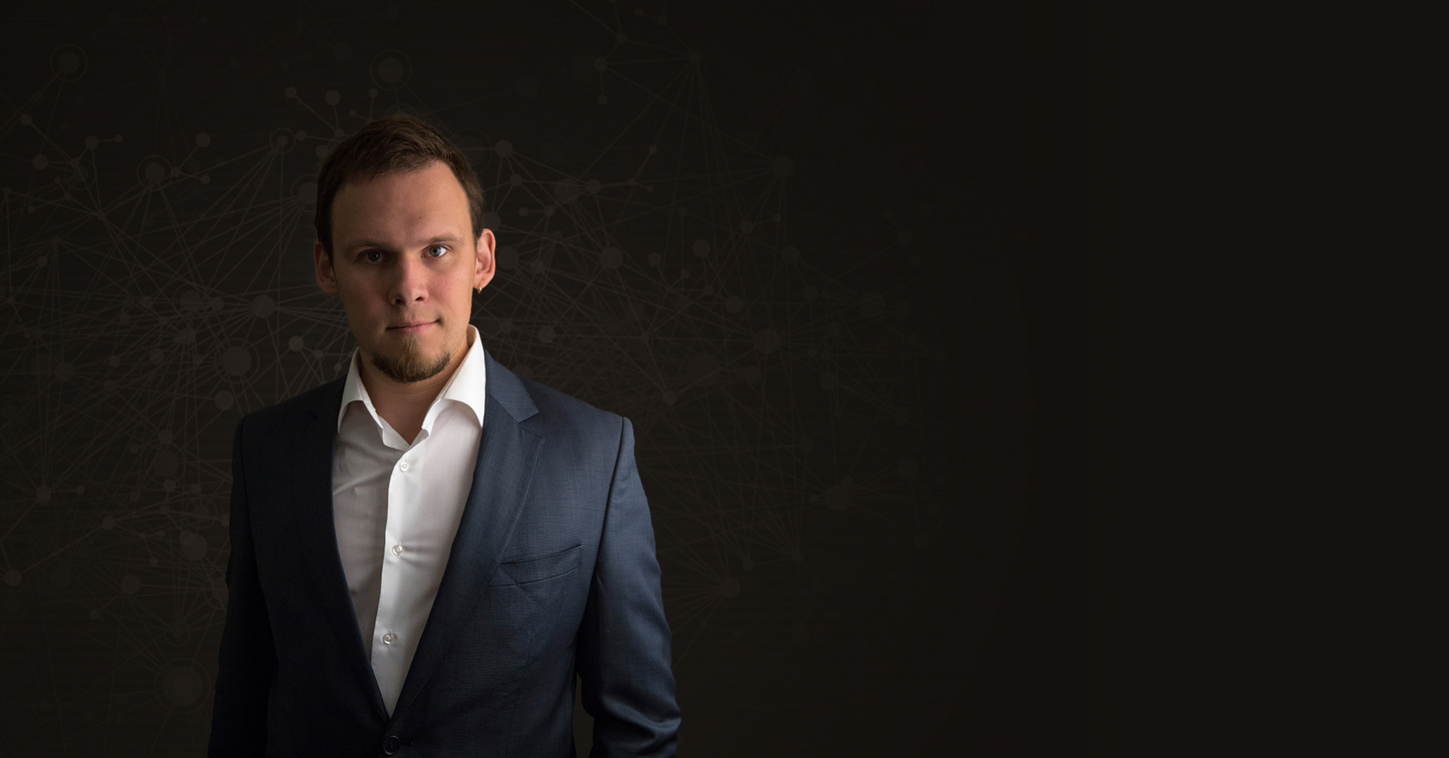
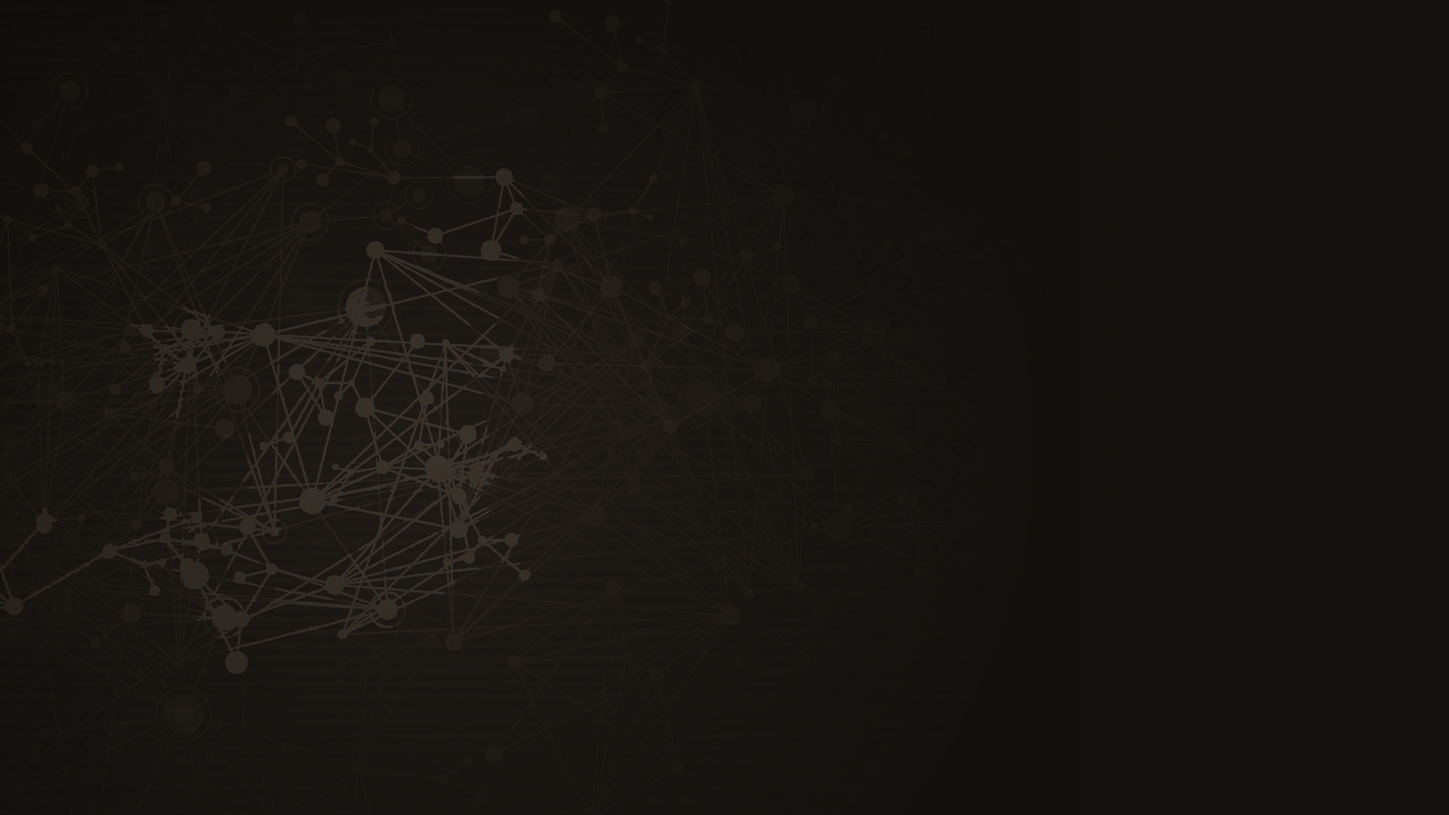
Add files via upload

Changed region(s): [[0.1562, 0.1542, 0.4688, 1.0]]

diff --git a/alxp/css/style.css b/alxp/css/style.css
@@ -1,1 +1,1 @@
-.about__text{max-width:640px;font-weight:400;font-size:22px;line-height:32px;color:#535762;text-align:center;margin:0 auto;margin-bottom:50px}.about__text span{display:block}.about-block{width:30%;max-width:400px;text-align:center;margin-bottom:113px}.about-block img{margin:0 auto}.about-block__img{height:136px;display:-ms-flex;display:-webkit-box;display:-ms-flexbox;display:flex;-webkit-box-align:center;-ms-flex-align:center;align-items:center;-webkit-box-pack:center;-ms-flex-pack:center;justify-content:center}.about-block__text{margin-top:17px;font-size:20px;font-weight:300;line-height:32px;color:#464749}.about-statistics{display:-ms-flex;display:-webkit-box;display:-ms-flexbox;display:flex;-webkit-box-align:center;-ms-flex-align:center;align-items:center;-webkit-box-pack:center;-ms-flex-pack:center;justify-content:center;width:400px}.about-statistics__number{font-size:95px;font-weight:900;color:#cc2428;margin-right:5px}.about-statistics__text{font-size:25px;font-weight:900;color:#000;line-height:25px}.projects{padding-top:85px;padding-bottom:115px;background:#f8fafc}.projects__title{margin-bottom:85px;position:relative}.projects__title::before{content:'';position:absolute;bottom:-30px;left:0;width:112px;height:4px;background:#cc2428}.projects-category{display:-ms-flex;display:-webkit-box;display:-ms-flexbox;display:flex;-webkit-box-align:center;-ms-flex-align:center;align-items:center;-ms-flex-wrap:wrap;flex-wrap:wrap;margin-bottom:30px}.projects-category__item{margin-right:15px;margin-bottom:18px;text-align:center;font-weight:500;font-size:16px;color:#fff;line-height:30px;padding:0 15px;padding-top:2px;background:#0884f6;border-radius:5px;text-decoration:none}.project{margin-bottom:60px;display:grid;grid-template-columns:1fr 1fr 1fr;grid-column-gap:35px}.project-content{padding:30px 0;width:100%}.project-content__title{font-size:26px;line-height:36px;color:#000;font-weight:500;margin-bottom:25px;max-width:325px}.project-content__text{font-size:18px;line-height:30px;color:#5f5f5f;font-weight:300;max-width:285px}.project-btn{display:-ms-flex;display:-webkit-box;display:-ms-flexbox;display:flex;-webkit-box-pack:center;-ms-flex-pack:center;justify-content:center;-webkit-box-align:center;-ms-flex-align:center;align-items:center;width:100%;background:#f8fafc;border:1px solid #dcdcdc;cursor:pointer}.project-btn__text{display:-ms-flex;display:-webkit-box;display:-ms-flexbox;display:flex;-webkit-box-pack:center;-ms-flex-pack:center;justify-content:center;-webkit-box-align:center;-ms-flex-align:center;align-items:center;font-size:32px;font-weight:500;line-height:32px}.project-btn__text span{font-size:75px;font-weight:500;color:#cc2428;margin-right:30px}.project__wrapper{grid-column-start:1;grid-column-end:3}.project-block{width:100%;padding:40px 38px 19px 40px;height:360px;display:-ms-flex;display:-webkit-box;display:-ms-flexbox;display:flex;text-decoration:none;-webkit-box-orient:vertical;-webkit-box-direction:normal;-ms-flex-direction:column;flex-direction:column;-webkit-box-pack:justify;-ms-flex-pack:justify;justify-content:space-between;position:relative;z-index:1}.project-block__img{position:absolute;bottom:34px;right:38px;z-index:-1}.project-block__title{color:#fff;font-weight:500}.project-block__category{display:-ms-flex;display:-webkit-box;display:-ms-flexbox;display:flex;-ms-flex-wrap:wrap;flex-wrap:wrap;max-width:80%}.project-block__category span{font-size:16px;line-height:30px;font-weight:500;color:#fff;margin-right:20px}.project-blockWide .project-block__title{font-size:40px;line-height:50px}.project-blockSmall .project-block__title{font-size:32px;line-height:42px}.project-blockSmall .project-block__category{-webkit-box-orient:vertical;-webkit-box-direction:normal;-ms-flex-direction:column;flex-direction:column}.project_2 .project__wrapper{grid-column-start:2;grid-column-end:4}.project_2 .project__wrapper .project-block__title{color:#000}.project_2 .project__wrapper .project-block__category span{color:#1a1a1a}.project_2 .project-content{text-align:right}.project_2 .project-content__text,.project_2 .project-content__title{margin-left:auto}.project_3 .project__wrapper{display:grid;grid-template-columns:1fr 1fr;grid-column-gap:35px}.project_4 .project__wrapper{grid-column-start:2;grid-column-end:4}.project_4 .project-content{text-align:right}.project_4 .project-content__text,.project_4 .project-content__title{margin-left:auto}.project_5 .project-block__img{bottom:0;right:0}.project_6 .project__wrapper{grid-column-start:2;grid-column-end:3}.project_6 .project-content{text-align:right}.project_6 .project-content__text,.project_6 .project-content__title{margin-left:auto}.project .fazer{background:#012e6f}.project .swissextract{background:#f1f4f4}.project .redHorse{background:#2d2f36}.project .engra{background:#292929}.project .ecolife{background:#4ca65a}.project .breadHouse{background:#403131}.skills{padding-top:100px;padding-bottom:115px}.skills__title{margin-bottom:50px}.skills__row{display:-ms-flex;display:-webkit-box;display:-ms-flexbox;display:flex;-webkit-box-align:start;-ms-flex-align:start;align-items:flex-start}.skills .active-tab{border:2px solid #0884f6}.skills-tab{max-width:280px;margin-right:45px}.skills-tab__item{display:inline-block;font-size:24px;line-height:36px;font-weight:500;color:#000;border-radius:5px;padding:2px 10px;margin-bottom:20px;border:2px solid transparent;cursor:pointer}.skills-content{width:100%}.skills-content__title{font-size:26px;line-height:36px;color:#000;font-weight:500;margin-bottom:20px}.skills-block{position:relative;margin-bottom:25px;padding-left:35px}.skills-block:last-child{margin-bottom:0}.skills-block__title{font-size:18px;font-weight:300;line-height:30px;color:#5f5f5f;margin-bottom:7px}.skills-block::before{content:'';position:absolute;top:8px;left:0;background:#ec1a1a;border-radius:3px;height:15px;width:15px}.skills-block_2{padding:0}.skills-block_2 .skills-block__title{padding-left:35px}.skills__wrapper{height:90px;display:-ms-flex;display:-webkit-box;display:-ms-flexbox;display:flex;-webkit-box-pack:center;-ms-flex-pack:center;justify-content:center;-webkit-box-align:center;-ms-flex-align:center;align-items:center}.skills-list{max-width:430px}.skills-list__item{display:inline-block;font-size:16px;font-weight:500;color:#1a1a1a;margin-right:18px;line-height:30px}.skills__tools{display:grid;grid-template-columns:repeat(auto-fill, 175px);margin-top:40px;grid-row-gap:45px}.skills-tool{display:-ms-flex;display:-webkit-box;display:-ms-flexbox;display:flex;-webkit-box-align:center;-ms-flex-align:center;align-items:center;-webkit-box-pack:center;-ms-flex-pack:center;justify-content:center;-webkit-box-orient:vertical;-webkit-box-direction:normal;-ms-flex-direction:column;flex-direction:column;max-width:140px}.skills-tool__text{font-size:18px;font-weight:300;line-height:30px;color:#5f5f5f;margin-top:10px}.reviews{background:#f8fafc;padding-top:50px;padding-bottom:70px}.reviews__title{margin-bottom:40px}.reviews-slide{background:#fff;padding:35px 60px 48px 100px;border-radius:15px;-webkit-filter:drop-shadow(0 2px 4px rgba(0,0,0,0.1));filter:drop-shadow(0 2px 4px rgba(0,0,0,0.1))}.reviews-slide__text{font-size:17px;line-height:28px;color:#000;font-weight:400;position:relative}.reviews-slide__text::before{content:'«';position:absolute;top:3px;left:-65px;color:#ec1a1a;font-size:100px;font-weight:400}.reviews-contact{display:-ms-flex;display:-webkit-box;display:-ms-flexbox;display:flex;-webkit-box-align:center;-ms-flex-align:center;align-items:center;margin-top:40px}.reviews-contact__img{border-radius:50%;margin-right:16px}.reviews-contact__name{font-size:18px;line-height:20px;font-weight:300;color:#000}.reviews-contact__work{font-size:14px;line-height:25px;font-weight:500;color:#606060}.reviews-contact__soc{margin-left:35px}.reviews-contact__soc svg{fill:#e2e2e2;-webkit-transition:all .3s;transition:all .3s}.reviews-contact__soc svg:hover{fill:#0a66c2}.certificates{padding-top:100px;padding-bottom:130px}.certificates__row{display:-ms-flex;display:-webkit-box;display:-ms-flexbox;display:flex;-webkit-box-align:start;-ms-flex-align:start;align-items:flex-start;-webkit-box-pack:justify;-ms-flex-pack:justify;justify-content:space-between}.certificates__title{margin-bottom:60px}.certificates-block{width:240px;display:-ms-flex;display:-webkit-box;display:-ms-flexbox;display:flex;-webkit-box-orient:vertical;-webkit-box-direction:normal;-ms-flex-direction:column;flex-direction:column;-webkit-box-align:center;-ms-flex-align:center;align-items:center;-webkit-box-pack:center;-ms-flex-pack:center;justify-content:center;text-align:center}.certificates-block__link{text-decoration:none}.certificates-block__title{margin-top:32px;margin-bottom:7px;font-size:26px;line-height:36px;color:#000;font-weight:500}.certificates-block__text{font-size:18px;line-height:24px;color:#5f5f5f;font-weight:300}.footer{border-top:2px solid #c4c4c4;padding:80px 0}.footer__row{display:-ms-flex;display:-webkit-box;display:-ms-flexbox;display:flex;-webkit-box-align:center;-ms-flex-align:center;align-items:center;-webkit-box-pack:justify;-ms-flex-pack:justify;justify-content:space-between}.footer-address{padding-left:20px;border-left:5px solid #ed2121}.footer-address__text{font-size:18px;font-weight:300;color:#000;text-decoration:none;margin-bottom:12px}.footer-contact{display:-ms-flex;display:-webkit-box;display:-ms-flexbox;display:flex;-webkit-box-align:center;-ms-flex-align:center;align-items:center}.footer-contact__mail{font-size:24px;font-weight:500;color:#000;text-decoration:none;margin-right:32px}.footer-contact__mail span{color:#ed2121}.footer-contact__link{height:52px;width:52px;border-radius:50%;display:-ms-flex;display:-webkit-box;display:-ms-flexbox;display:flex;-webkit-box-align:center;-ms-flex-align:center;align-items:center;-webkit-box-pack:center;-ms-flex-pack:center;justify-content:center;text-decoration:none;background:#ed2121;margin-right:15px;-webkit-transition:all .2s;transition:all .2s;overflow:hidden}.footer-contact__link svg{fill:#fff}.footer-contact__link:hover{opacity:.8}.footer .footer-telegram svg{position:relative;left:-3px}.footer .footer-viber svg{position:relative;left:10px;top:10px}.show{display:grid;-webkit-animation:show 1s;animation:show 1s}.db{display:block;-webkit-animation:show 1s;animation:show 1s}.hide{display:none}@media (max-width:1500px){.project-block{padding:20px 20px 15px 20px}.project-block__img{max-width:400px;right:15px}.about-statistics__number{font-size:80px}.about-statistics__text{font-size:22px}}@media (max-width:1200px){.reviews-slide{padding:25px 25px 25px 70px}.certificates-block__img{width:80%;max-width:170px}.certificates-block__title{font-size:24px}.project,.project_3 .project__wrapper{grid-column-gap:15px}}@media (max-width:992px){.main{background-position:right top}.about-block{width:50%;padding:0 15px;margin-bottom:40px}.about-statistics{width:auto;margin-top:30px;width:50%}.about__row{-ms-flex-wrap:wrap;flex-wrap:wrap;-webkit-box-pack:center;-ms-flex-pack:center;justify-content:center}.skills__row{-webkit-box-orient:vertical;-webkit-box-direction:normal;-ms-flex-direction:column;flex-direction:column}.skills-tab{max-width:none;margin-bottom:30px}.skills-tab__item{margin-right:15px}.skills__tools{grid-template-columns:repeat(auto-fill, 150px)}.skills-tab__item{margin-right:5px}.reviews__slider{width:90%}.certificates{padding-bottom:30px}.certificates__row{-ms-flex-wrap:wrap;flex-wrap:wrap}.certificates-block{margin-bottom:40px}.projects{padding-bottom:50px}.project{display:-ms-flex;display:-webkit-box;display:-ms-flexbox;display:flex;-webkit-box-orient:vertical;-webkit-box-direction:normal;-ms-flex-direction:column;flex-direction:column;margin-bottom:50px}.project-content__text{max-width:none}.project-content__title{margin-left:0 !important;max-width:none}.project-content{text-align:left !important}.project_2,.project_4{-webkit-box-orient:vertical;-webkit-box-direction:reverse;-ms-flex-direction:column-reverse;flex-direction:column-reverse}.project-btn{height:400px;margin-top:40px}}@media (max-width:768px){.container{padding:0 40px}.title{font-size:36px}.about__text{font-size:20px}.about-block{width:100%;padding:0;margin-bottom:40px}.about-statistics{margin-top:50px;width:100%}.about__row{-webkit-box-orient:vertical;-webkit-box-direction:normal;-ms-flex-direction:column;flex-direction:column;-webkit-box-align:center;-ms-flex-align:center;align-items:center}.footer__row{-webkit-box-orient:vertical;-webkit-box-direction:normal;-ms-flex-direction:column;flex-direction:column}.footer-address{margin-bottom:40px}}@media (max-width:576px){.container{padding:0 20px}.title{font-size:28px;line-height:34px}.main{padding-top:10px;padding-bottom:50px}.main__title{font-size:36px;margin-top:50px;line-height:100%}.main__line{margin:30px 0}.main__text{font-size:20px;line-height:26px}.main__sertif{font-size:20px;line-height:24px}.main__blockLink{margin-top:50px}.about{padding-top:50px;padding-bottom:50px}.about__text{line-height:28px;font-size:19px}.about-block{margin-bottom:20px}.about-block:last-child{margin-bottom:0}.about-block__text{font-size:18px;margin-top:0}.about-statistics__number{font-size:60px}.about-statistics__text{font-size:18px;line-height:18px}.projects{padding-top:50px;padding-bottom:30px}.projects__title{margin-bottom:65px}.project-blockWide .project-block__title,.project-blockSmall .project-block__title{font-size:26px;line-height:32px}.project_3 .project__wrapper{display:-ms-flex;display:-webkit-box;display:-ms-flexbox;display:flex;-webkit-box-orient:vertical;-webkit-box-direction:normal;-ms-flex-direction:column;flex-direction:column}.project_3 .project__wrapper .project-block{margin-bottom:10px}.project{margin-bottom:30px}.project-btn{height:140px}.project-btn__text{font-size:24px;line-height:26px}.project-block{height:auto}.project-block__title{margin-bottom:40px}.project-block__img{width:100px;right:5px;bottom:5px}.project-content__title{font-size:24px;margin-bottom:15px}.skills{padding-top:50px;padding-bottom:50px}.skills__title{margin-bottom:40px}.skills-tab{height:44px;width:100%;overflow-x:scroll}.skills-tab__wrapper{width:500%}.skills-tab__item{font-size:20px;margin-bottom:5px;float:left}.skills-content__title{font-size:22px;line-height:28px}.skills-block__title{line-height:24px}.skills__tools{margin-top:30px;grid-template-columns:1fr 1fr;justify-items:center}.reviews{padding-bottom:50px}.reviews__title{margin-bottom:30px}.reviews-slide{padding:25px 10px 20px 15px}.reviews-slide__text{font-size:15px;line-height:22px}.reviews-contact{-webkit-box-orient:vertical;-webkit-box-direction:normal;-ms-flex-direction:column;flex-direction:column;-webkit-box-align:center;-ms-flex-align:center;align-items:center}.reviews-contact__img{margin:0;margin-bottom:8px}.reviews-contact__soc{margin:0;margin-top:10px}.reviews-slide__text::before{display:none}.certificates{padding-top:50px;padding-bottom:10px}.certificates__title{margin-bottom:40px}.certificates__row{-webkit-box-orient:vertical;-webkit-box-direction:normal;-ms-flex-direction:column;flex-direction:column;-webkit-box-align:center;-ms-flex-align:center;align-items:center}.certificates-block__link{width:70%;max-width:177px}.certificates-block__title{font-size:20px;margin-top:10px}.certificates-block__text{font-size:18px}.footer{padding:50px 0}.footer-contact{-ms-flex-wrap:wrap;flex-wrap:wrap;-webkit-box-pack:center;-ms-flex-pack:center;justify-content:center}.footer-contact__mail{width:100%;text-align:center;margin:0;margin-bottom:30px}.footer-contact__link{margin:0 10px}}@media (max-height:450px){.mobile-menu{padding:20px 0}}
+@font-face{font-family:'Roboto';font-style:normal;font-weight:300;font-display:swap;src:url(https://fonts.gstatic.com/s/roboto/v20/KFOlCnqEu92Fr1MmSU5vAw.ttf) format('truetype')}@font-face{font-family:'Roboto';font-style:normal;font-weight:400;font-display:swap;src:url(https://fonts.gstatic.com/s/roboto/v20/KFOmCnqEu92Fr1Me5Q.ttf) format('truetype')}@font-face{font-family:'Roboto';font-style:normal;font-weight:500;font-display:swap;src:url(https://fonts.gstatic.com/s/roboto/v20/KFOlCnqEu92Fr1MmEU9vAw.ttf) format('truetype')}@font-face{font-family:'Roboto';font-style:normal;font-weight:900;font-display:swap;src:url(https://fonts.gstatic.com/s/roboto/v20/KFOlCnqEu92Fr1MmYUtvAw.ttf) format('truetype')}*,*::after,*::before{padding:0;margin:0;-webkit-box-sizing:border-box;box-sizing:border-box}@-webkit-keyframes show{from{opacity:0}to{opacity:1}}@keyframes show{from{opacity:0}to{opacity:1}}html{overflow-x:hidden}body{min-height:100vh;scroll-behavior:smooth;text-rendering:optimizeSpeed;line-height:100%;overflow-x:hidden;font-family:'Roboto',sans-serif}ul[class],ol[class]{list-style:none}a:not([class]){text-decoration-skip-ink:auto}img{max-width:100%;display:block}.container{max-width:1520px;width:100%;margin:0 auto;padding:0 60px}.title{color:#000;font-weight:500;font-size:45px;line-height:60px}.header__row{display:-ms-flex;display:-webkit-box;display:-ms-flexbox;display:flex;-webkit-box-align:center;-ms-flex-align:center;align-items:center}.header__logo{font-size:30px;font-weight:400;color:#fff;text-decoration:none;line-height:65px}.main{background:#15110e url(../img/main/bg.jpg) no-repeat center / cover;padding-top:38px;overflow:hidden;padding-bottom:0}.main .container{position:relative;padding-bottom:147px}.main__content{max-width:644px;margin-left:auto;position:relative;z-index:1}.main__person{position:absolute;bottom:-15px;left:0;width:700px;z-index:0}.main__title{font-size:55px;font-weight:300;line-height:65px;color:#fff;margin-top:150px}.main__line{width:262px;height:1px;background:#cc2428;margin-top:50px;margin-bottom:46px}.main__text{font-size:24px;font-weight:300;line-height:36px;margin-bottom:35px;color:#fff}.main__blockLink{margin-top:70px;display:-ms-flex;display:-webkit-box;display:-ms-flexbox;display:flex;-webkit-box-align:center;-ms-flex-align:center;align-items:center}.main__sertif{text-decoration:underline;color:#fff;font-weight:300;font-size:24px;margin-left:18px}.main__sertif:hover{text-decoration:none}.visuallyhidden{border:0;clip:rect(0 0 0 0);height:1px;margin:-1px;overflow:hidden;padding:0;position:absolute;width:1px}.lang__dropdown{position:relative;top:3px}p.lang__dropdown-trigger{margin-top:0}.lang__dropdown-trigger strong{position:relative;z-index:89}.lang__dropdown-trigger strong:after{display:block;position:absolute;content:'';right:5px;top:5px;height:17px;width:17px;background:url(../img/dropdown-icon.svg) no-repeat center;-webkit-transform-origin:center;transform-origin:center;-webkit-transition:all .3s;transition:all .3s}.lang__dropdown-trigger strong,.lang__dropdown ul a{display:block;width:60px;cursor:pointer;padding:6px 8px;color:#fff;font-size:18px;font-weight:500;text-transform:uppercase;text-decoration:none;font-weight:normal;margin-left:23px}.lang__dropdown ul{display:none;position:absolute;right:0;top:25px;margin-top:0;padding:0;z-index:90}.lang__dropdown li{list-style-type:none}.lang__dropdown ul a,.lang__dropdown ul a:link,.lang__dropdown ul a:visited{position:relative;display:block;float:right}.lang__dropdown ul a:hover,.lang__dropdown ul a:focus{border-bottom:none}.no-js .lang__dropdown ul,.lang__dropdown.active ul{display:block}.lang__dropdown.active strong::after{-webkit-transform:rotate(180deg);transform:rotate(180deg)}.lang strong{float:right}.mobile-menu{position:absolute;height:100vh;width:100%;top:0;left:0;right:0;bottom:0;background:#15110e;z-index:99;display:-ms-flex;display:-webkit-box;display:-ms-flexbox;display:flex;-webkit-box-pack:center;-ms-flex-pack:center;justify-content:center;-ms-flex-wrap:wrap;flex-wrap:wrap;padding:20vh 0;-webkit-transition:all .4s;transition:all .4s;display:none}.mobile-menu__link{font-size:25px;color:#fff;width:100%;text-decoration:none;text-align:center;display:-ms-flex;display:-webkit-box;display:-ms-flexbox;display:flex;-webkit-box-align:center;-ms-flex-align:center;align-items:center;-webkit-box-pack:center;-ms-flex-pack:center;justify-content:center;-webkit-transition:all .2s;transition:all .2s}.mobile-menu__link:hover{color:#e1e1e1}.menu-btn{width:52px;height:38px;border:none;background:transparent;position:relative;z-index:100;outline:none;cursor:pointer;margin-left:auto}.menu-btn span,.menu-btn span::before,.menu-btn span::after{position:absolute;top:50%;margin-top:-1px;left:50%;margin-left:-19px;width:38px;height:3px;background-color:#fff;border-radius:5px}.menu-btn span::before,.menu-btn span::after{content:'';display:block;-webkit-transition:.2s;transition:.2s}.menu-btn span::before{-webkit-transform:translateY(-10px);transform:translateY(-10px)}.menu-btn_active span{height:0}.menu-btn span::after{-webkit-transform:translateY(10px);transform:translateY(10px);width:50%;left:auto;right:0}.menu-btn_active span:before{-webkit-transform:rotate(-45deg);transform:rotate(-45deg);-webkit-transform-origin:center;transform-origin:center}.menu-btn_active span:after{-webkit-transform:rotate(45deg);transform:rotate(45deg);-webkit-transform-origin:center;transform-origin:center;width:100%}.about{padding-top:85px;padding-bottom:95px}.about__row{display:-ms-flex;display:-webkit-box;display:-ms-flexbox;display:flex;-webkit-box-align:start;-ms-flex-align:start;align-items:flex-start;-webkit-box-pack:justify;-ms-flex-pack:justify;justify-content:space-between}.about__title{text-align:center;margin-bottom:63px;position:relative}.about__title::before{content:'';position:absolute;bottom:-30px;left:50%;-webkit-transform:translateX(-50%);transform:translateX(-50%);width:112px;height:4px;background:#cc2428}.about__text{max-width:640px;font-weight:400;font-size:22px;line-height:32px;color:#535762;text-align:center;margin:0 auto;margin-bottom:50px}.about__text span{display:block}.about-block{width:30%;max-width:400px;text-align:center;margin-bottom:113px}.about-block img{margin:0 auto}.about-block__img{height:136px;display:-ms-flex;display:-webkit-box;display:-ms-flexbox;display:flex;-webkit-box-align:center;-ms-flex-align:center;align-items:center;-webkit-box-pack:center;-ms-flex-pack:center;justify-content:center}.about-block__text{margin-top:17px;font-size:20px;font-weight:300;line-height:32px;color:#464749}.about-statistics{display:-ms-flex;display:-webkit-box;display:-ms-flexbox;display:flex;-webkit-box-align:center;-ms-flex-align:center;align-items:center;-webkit-box-pack:center;-ms-flex-pack:center;justify-content:center;width:400px}.about-statistics__number{font-size:95px;font-weight:900;color:#cc2428;margin-right:5px}.about-statistics__text{font-size:25px;font-weight:900;color:#000;line-height:25px}.projects{padding-top:85px;padding-bottom:115px;background:#f8fafc}.projects__title{margin-bottom:85px;position:relative}.projects__title::before{content:'';position:absolute;bottom:-30px;left:0;width:112px;height:4px;background:#cc2428}.projects-category{display:-ms-flex;display:-webkit-box;display:-ms-flexbox;display:flex;-webkit-box-align:center;-ms-flex-align:center;align-items:center;-ms-flex-wrap:wrap;flex-wrap:wrap;margin-bottom:30px}.projects-category__item{margin-right:15px;margin-bottom:18px;text-align:center;font-weight:500;font-size:16px;color:#fff;line-height:30px;padding:0 15px;padding-top:2px;background:#0884f6;border-radius:5px;text-decoration:none}.project{margin-bottom:60px;display:grid;grid-template-columns:1fr 1fr 1fr;grid-column-gap:35px}.project-content{padding:30px 0;width:100%}.project-content__title{font-size:26px;line-height:36px;color:#000;font-weight:500;margin-bottom:25px;max-width:325px}.project-content__text{font-size:18px;line-height:30px;color:#5f5f5f;font-weight:300;max-width:285px}.project-btn{display:-ms-flex;display:-webkit-box;display:-ms-flexbox;display:flex;-webkit-box-pack:center;-ms-flex-pack:center;justify-content:center;-webkit-box-align:center;-ms-flex-align:center;align-items:center;width:100%;background:#f8fafc;border:1px solid #dcdcdc;cursor:pointer}.project-btn__text{display:-ms-flex;display:-webkit-box;display:-ms-flexbox;display:flex;-webkit-box-pack:center;-ms-flex-pack:center;justify-content:center;-webkit-box-align:center;-ms-flex-align:center;align-items:center;font-size:32px;font-weight:500;line-height:32px}.project-btn__text span{font-size:75px;font-weight:500;color:#cc2428;margin-right:30px}.project__wrapper{grid-column-start:1;grid-column-end:3}.project-block{width:100%;padding:40px 38px 19px 40px;height:360px;display:-ms-flex;display:-webkit-box;display:-ms-flexbox;display:flex;text-decoration:none;-webkit-box-orient:vertical;-webkit-box-direction:normal;-ms-flex-direction:column;flex-direction:column;-webkit-box-pack:justify;-ms-flex-pack:justify;justify-content:space-between;position:relative;z-index:1}.project-block__img{position:absolute;bottom:34px;right:38px;z-index:-1}.project-block__title{color:#fff;font-weight:500}.project-block__category{display:-ms-flex;display:-webkit-box;display:-ms-flexbox;display:flex;-ms-flex-wrap:wrap;flex-wrap:wrap;max-width:80%}.project-block__category span{font-size:16px;line-height:30px;font-weight:500;color:#fff;margin-right:20px}.project-blockWide .project-block__title{font-size:40px;line-height:50px}.project-blockSmall .project-block__title{font-size:32px;line-height:42px}.project-blockSmall .project-block__category{-webkit-box-orient:vertical;-webkit-box-direction:normal;-ms-flex-direction:column;flex-direction:column}.project_2 .project__wrapper{grid-column-start:2;grid-column-end:4}.project_2 .project__wrapper .project-block__title{color:#000}.project_2 .project__wrapper .project-block__category span{color:#1a1a1a}.project_2 .project-content{text-align:right}.project_2 .project-content__text,.project_2 .project-content__title{margin-left:auto}.project_3 .project__wrapper{display:grid;grid-template-columns:1fr 1fr;grid-column-gap:35px}.project_4 .project__wrapper{grid-column-start:2;grid-column-end:4}.project_4 .project-content{text-align:right}.project_4 .project-content__text,.project_4 .project-content__title{margin-left:auto}.project_5 .project-block__img{bottom:0;right:0}.project_6 .project__wrapper{grid-column-start:2;grid-column-end:3}.project_6 .project-content{text-align:right}.project_6 .project-content__text,.project_6 .project-content__title{margin-left:auto}.project .fazer{background:#012e6f}.project .swissextract{background:#f1f4f4}.project .redHorse{background:#2d2f36}.project .engra{background:#292929}.project .ecolife{background:#4ca65a}.project .breadHouse{background:#403131}.skills{padding-top:100px;padding-bottom:115px}.skills__title{margin-bottom:50px}.skills__row{display:-ms-flex;display:-webkit-box;display:-ms-flexbox;display:flex;-webkit-box-align:start;-ms-flex-align:start;align-items:flex-start}.skills .active-tab{border:2px solid #0884f6}.skills-tab{max-width:280px;margin-right:45px}.skills-tab__item{display:inline-block;font-size:24px;line-height:36px;font-weight:500;color:#000;border-radius:5px;padding:2px 10px;margin-bottom:20px;border:2px solid transparent;cursor:pointer}.skills-content{width:100%}.skills-content__title{font-size:26px;line-height:36px;color:#000;font-weight:500;margin-bottom:20px}.skills-block{position:relative;margin-bottom:25px;padding-left:35px}.skills-block:last-child{margin-bottom:0}.skills-block__title{font-size:18px;font-weight:300;line-height:30px;color:#5f5f5f;margin-bottom:7px}.skills-block::before{content:'';position:absolute;top:8px;left:0;background:#ec1a1a;border-radius:3px;height:15px;width:15px}.skills-block_2{padding:0}.skills-block_2 .skills-block__title{padding-left:35px}.skills__wrapper{height:90px;display:-ms-flex;display:-webkit-box;display:-ms-flexbox;display:flex;-webkit-box-pack:center;-ms-flex-pack:center;justify-content:center;-webkit-box-align:center;-ms-flex-align:center;align-items:center}.skills-list{max-width:430px}.skills-list__item{display:inline-block;font-size:16px;font-weight:500;color:#1a1a1a;margin-right:18px;line-height:30px}.skills__tools{display:grid;grid-template-columns:repeat(auto-fill, 175px);margin-top:40px;grid-row-gap:45px}.skills-tool{display:-ms-flex;display:-webkit-box;display:-ms-flexbox;display:flex;-webkit-box-align:center;-ms-flex-align:center;align-items:center;-webkit-box-pack:center;-ms-flex-pack:center;justify-content:center;-webkit-box-orient:vertical;-webkit-box-direction:normal;-ms-flex-direction:column;flex-direction:column;max-width:140px}.skills-tool__text{font-size:18px;font-weight:300;line-height:30px;color:#5f5f5f;margin-top:10px}.reviews{background:#f8fafc;padding-top:50px;padding-bottom:70px}.reviews__title{margin-bottom:40px}.reviews-slide{background:#fff;padding:35px 60px 48px 100px;border-radius:15px;-webkit-filter:drop-shadow(0 2px 4px rgba(0,0,0,0.1));filter:drop-shadow(0 2px 4px rgba(0,0,0,0.1))}.reviews-slide__text{font-size:17px;line-height:28px;color:#000;font-weight:400;position:relative}.reviews-slide__text::before{content:'«';position:absolute;top:3px;left:-65px;color:#ec1a1a;font-size:100px;font-weight:400}.reviews-contact{display:-ms-flex;display:-webkit-box;display:-ms-flexbox;display:flex;-webkit-box-align:center;-ms-flex-align:center;align-items:center;margin-top:40px}.reviews-contact__img{border-radius:50%;margin-right:16px}.reviews-contact__name{font-size:18px;line-height:20px;font-weight:300;color:#000}.reviews-contact__work{font-size:14px;line-height:25px;font-weight:500;color:#606060}.reviews-contact__soc{margin-left:35px}.reviews-contact__soc svg{fill:#e2e2e2;-webkit-transition:all .3s;transition:all .3s}.reviews-contact__soc svg:hover{fill:#0a66c2}.certificates{padding-top:100px;padding-bottom:130px}.certificates__row{display:-ms-flex;display:-webkit-box;display:-ms-flexbox;display:flex;-webkit-box-align:start;-ms-flex-align:start;align-items:flex-start;-webkit-box-pack:justify;-ms-flex-pack:justify;justify-content:space-between}.certificates__title{margin-bottom:60px}.certificates-block{width:240px;display:-ms-flex;display:-webkit-box;display:-ms-flexbox;display:flex;-webkit-box-orient:vertical;-webkit-box-direction:normal;-ms-flex-direction:column;flex-direction:column;-webkit-box-align:center;-ms-flex-align:center;align-items:center;-webkit-box-pack:center;-ms-flex-pack:center;justify-content:center;text-align:center}.certificates-block__link{text-decoration:none}.certificates-block__title{margin-top:32px;margin-bottom:7px;font-size:26px;line-height:36px;color:#000;font-weight:500}.certificates-block__text{font-size:18px;line-height:24px;color:#5f5f5f;font-weight:300}.footer{border-top:2px solid #c4c4c4;padding:80px 0}.footer__row{display:-ms-flex;display:-webkit-box;display:-ms-flexbox;display:flex;-webkit-box-align:center;-ms-flex-align:center;align-items:center;-webkit-box-pack:justify;-ms-flex-pack:justify;justify-content:space-between}.footer-address{padding-left:20px;border-left:5px solid #ed2121}.footer-address__text{font-size:18px;font-weight:300;color:#000;text-decoration:none;margin-bottom:12px}.footer-contact{display:-ms-flex;display:-webkit-box;display:-ms-flexbox;display:flex;-webkit-box-align:center;-ms-flex-align:center;align-items:center}.footer-contact__mail{font-size:24px;font-weight:500;color:#000;text-decoration:none;margin-right:32px}.footer-contact__mail span{color:#ed2121}.footer-contact__link{height:52px;width:52px;border-radius:50%;display:-ms-flex;display:-webkit-box;display:-ms-flexbox;display:flex;-webkit-box-align:center;-ms-flex-align:center;align-items:center;-webkit-box-pack:center;-ms-flex-pack:center;justify-content:center;text-decoration:none;background:#ed2121;margin-right:15px;-webkit-transition:all .2s;transition:all .2s;overflow:hidden}.footer-contact__link svg{fill:#fff}.footer-contact__link:hover{opacity:.8}.footer .footer-telegram svg{position:relative;left:-3px}.footer .footer-viber svg{position:relative;left:10px;top:10px}.show{display:grid;-webkit-animation:show 1s;animation:show 1s}.db{display:block;-webkit-animation:show 1s;animation:show 1s}.hide{display:none}@media (max-width:1500px){.project-block{padding:20px 20px 15px 20px}.project-block__img{max-width:400px;right:15px}.about-statistics__number{font-size:80px}.about-statistics__text{font-size:22px}}@media (max-width:1200px){.reviews-slide{padding:25px 25px 25px 70px}.certificates-block__img{width:80%;max-width:170px}.certificates-block__title{font-size:24px}.project,.project_3 .project__wrapper{grid-column-gap:15px}}@media (max-width:992px){.main .container{padding-bottom:0}.main__person{position:static;width:70%;min-width:300px;margin:0 auto}.main__title{margin-top:100px}.main__content{margin:0;width:100%}.about-block{width:50%;padding:0 15px;margin-bottom:40px}.about-statistics{width:auto;margin-top:30px;width:50%}.about__row{-ms-flex-wrap:wrap;flex-wrap:wrap;-webkit-box-pack:center;-ms-flex-pack:center;justify-content:center}.skills__row{-webkit-box-orient:vertical;-webkit-box-direction:normal;-ms-flex-direction:column;flex-direction:column}.skills-tab{max-width:none;margin-bottom:30px}.skills-tab__item{margin-right:15px}.skills__tools{grid-template-columns:repeat(auto-fill, 150px)}.skills-tab__item{margin-right:5px}.reviews__slider{width:90%}.certificates{padding-bottom:30px}.certificates__row{-ms-flex-wrap:wrap;flex-wrap:wrap}.certificates-block{margin-bottom:40px}.projects{padding-bottom:50px}.project{display:-ms-flex;display:-webkit-box;display:-ms-flexbox;display:flex;-webkit-box-orient:vertical;-webkit-box-direction:normal;-ms-flex-direction:column;flex-direction:column;margin-bottom:50px}.project-content__text{max-width:none}.project-content__title{margin-left:0 !important;max-width:none}.project-content{text-align:left !important}.project_2,.project_4{-webkit-box-orient:vertical;-webkit-box-direction:reverse;-ms-flex-direction:column-reverse;flex-direction:column-reverse}.project-btn{height:400px;margin-top:40px}}@media (max-width:768px){.container{padding:0 40px}.title{font-size:36px}.about__text{font-size:20px}.about-block{width:100%;padding:0;margin-bottom:40px}.about-statistics{margin-top:50px;width:100%}.about__row{-webkit-box-orient:vertical;-webkit-box-direction:normal;-ms-flex-direction:column;flex-direction:column;-webkit-box-align:center;-ms-flex-align:center;align-items:center}.footer__row{-webkit-box-orient:vertical;-webkit-box-direction:normal;-ms-flex-direction:column;flex-direction:column}.footer-address{margin-bottom:40px}}@media (max-width:576px){.container{padding:0 20px}.title{font-size:28px;line-height:34px}.main{padding-top:10px}.main__title{font-size:36px;margin-top:50px;line-height:100%}.main__line{margin:30px 0}.main__text{font-size:20px;line-height:26px}.main__sertif{font-size:20px;line-height:24px}.main__blockLink{margin-top:50px}.about{padding-top:50px;padding-bottom:50px}.about__text{line-height:28px;font-size:19px}.about-block{margin-bottom:20px}.about-block:last-child{margin-bottom:0}.about-block__text{font-size:18px;margin-top:0}.about-statistics__number{font-size:60px}.about-statistics__text{font-size:18px;line-height:18px}.projects{padding-top:50px;padding-bottom:30px}.projects__title{margin-bottom:65px}.project-blockWide .project-block__title,.project-blockSmall .project-block__title{font-size:26px;line-height:32px}.project_3 .project__wrapper{display:-ms-flex;display:-webkit-box;display:-ms-flexbox;display:flex;-webkit-box-orient:vertical;-webkit-box-direction:normal;-ms-flex-direction:column;flex-direction:column}.project_3 .project__wrapper .project-block{margin-bottom:10px}.project{margin-bottom:30px}.project-btn{height:140px}.project-btn__text{font-size:24px;line-height:26px}.project-block{height:auto}.project-block__title{margin-bottom:40px}.project-block__img{width:100px;right:5px;bottom:5px}.project-content__title{font-size:24px;margin-bottom:15px}.skills{padding-top:50px;padding-bottom:50px}.skills__title{margin-bottom:40px}.skills-tab{height:44px;width:100%;overflow-x:scroll}.skills-tab__wrapper{width:500%}.skills-tab__item{font-size:20px;margin-bottom:5px;float:left}.skills-content__title{font-size:22px;line-height:28px}.skills-block__title{line-height:24px}.skills__tools{margin-top:30px;grid-template-columns:1fr 1fr;justify-items:center}.reviews{padding-bottom:50px}.reviews__title{margin-bottom:30px}.reviews-slide{padding:25px 10px 20px 15px}.reviews-slide__text{font-size:15px;line-height:22px}.reviews-contact{-webkit-box-orient:vertical;-webkit-box-direction:normal;-ms-flex-direction:column;flex-direction:column;-webkit-box-align:center;-ms-flex-align:center;align-items:center}.reviews-contact__img{margin:0;margin-bottom:8px}.reviews-contact__soc{margin:0;margin-top:10px}.reviews-slide__text::before{display:none}.certificates{padding-top:50px;padding-bottom:10px}.certificates__title{margin-bottom:40px}.certificates__row{-webkit-box-orient:vertical;-webkit-box-direction:normal;-ms-flex-direction:column;flex-direction:column;-webkit-box-align:center;-ms-flex-align:center;align-items:center}.certificates-block__link{width:70%;max-width:177px}.certificates-block__title{font-size:20px;margin-top:10px}.certificates-block__text{font-size:18px}.footer{padding:50px 0}.footer-contact{-ms-flex-wrap:wrap;flex-wrap:wrap;-webkit-box-pack:center;-ms-flex-pack:center;justify-content:center}.footer-contact__mail{width:100%;text-align:center;margin:0;margin-bottom:30px}.footer-contact__link{margin:0 10px}}@media (max-height:450px){.mobile-menu{padding:20px 0}}

diff --git a/alxp/css/style.less b/alxp/css/style.less
@@ -73,12 +73,26 @@ img {
 }
 
 .main{
-  background: #15110e url(../img/main/bg.webp) no-repeat center / cover;
+  background: #15110e url(../img/main/bg.jpg) no-repeat center / cover;
   padding-top: 38px;
-  padding-bottom: 147px;
+  overflow: hidden;
+  padding-bottom: 0px;
+  .container{
+    position: relative;
+    padding-bottom: 147px;
+  }
   &__content{
     max-width: 644px;
     margin-left: auto;
+    position: relative;
+    z-index: 1;
+  }
+  &__person{
+    position: absolute;
+    bottom: -15px;
+    left: 0px;
+    width: 700px;
+    z-index: 0;
   }
   &__title{
     font-size: 55px;
@@ -945,7 +959,22 @@ p.lang__dropdown-trigger {
 
 @media(max-width: 992px){
   .main{
-    background-position: right top;
+    .container{
+      padding-bottom: 0;
+    }
+    &__person{
+      position: static;
+      width: 70%;
+      min-width: 300px;
+      margin: 0 auto;
+    }
+    &__title{
+      margin-top: 100px;
+    }
+    &__content{
+      margin: 0;
+      width: 100%;
+    }
   }
   .about-block{
     width: 50%;
@@ -1059,7 +1088,6 @@ p.lang__dropdown-trigger {
   }
   .main{
     padding-top: 10px;
-    padding-bottom: 50px;
     &__title{
       font-size: 36px;
       margin-top: 50px;

diff --git a/alxp/index.html b/alxp/index.html
@@ -68,6 +68,7 @@
         </div>
       </div>
       <!-- /.main__content -->
+      <img src="img/main/person.png" alt="" class="main__person">
     </div>
     <!-- /.container -->
   </main>
